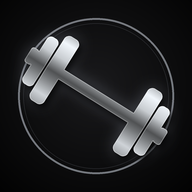
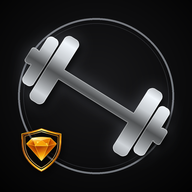
Arreglo de las fotos de la rutina en casa tras actualizar; ícono con el sello de ZafiroWeb
- Causa: el service worker servía media.js desde su copia guardada (y GitHub lo cachea 10 min),
  así que al actualizar quedaba la página nueva con el media.js viejo, sin los ejercicios de casa.
  Ahora media.js lleva la versión en la URL, la instalación baja todo con cache: reload y la página
  se pide con no-cache (antes el navegador podía reusar la versión vieja hasta 10 min).
  Verificado simulando la actualización con max-age=600 como GitHub.
- Ícono: escudo de ZafiroWeb chiquito abajo a la izquierda (icon-192/512 y gymblack.ico) y una
  versión maskable para Android con todo dentro de la zona segura.

Changed region(s): [[0.0938, 0.6562, 0.3438, 0.9062]]

diff --git a/sw.js b/sw.js
@@ -1,12 +1,12 @@
-const CACHE = "gymblack-20260928133431", FUENTES = "gymblack-fuentes", FOTOS = "gymblack-fotos";
+const CACHE = "gymblack-20260928134633", FUENTES = "gymblack-fuentes", FOTOS = "gymblack-fotos";
 const LISTA_FOTOS = ["ejercicios/Ball_Leg_Curl/0.jpg", "ejercicios/Ball_Leg_Curl/1.jpg", "ejercicios/Band_Assisted_Pull-Up/0.jpg", "ejercicios/Band_Assisted_Pull-Up/1.jpg", "ejercicios/Barbell_Bench_Press_-_Medium_Grip/0.jpg", "ejercicios/Barbell_Bench_Press_-_Medium_Grip/1.jpg", "ejercicios/Barbell_Curl/0.jpg", "ejercicios/Barbell_Curl/1.jpg", "ejercicios/Barbell_Glute_Bridge/0.jpg", "ejercicios/Barbell_Glute_Bridge/1.jpg", "ejercicios/Barbell_Hip_Thrust/0.jpg", "ejercicios/Barbell_Hip_Thrust/1.jpg", "ejercicios/Barbell_Incline_Bench_Press_-_Medium_Grip/0.jpg", "ejercicios/Barbell_Incline_Bench_Press_-_Medium_Grip/1.jpg", "ejercicios/Barbell_Seated_Calf_Raise/0.jpg", "ejercicios/Barbell_Seated_Calf_Raise/1.jpg", "ejercicios/Barbell_Squat/0.jpg", "ejercicios/Barbell_Squat/1.jpg", "ejercicios/Bench_Dips/0.jpg", "ejercicios/Bench_Dips/1.jpg", "ejercicios/Bent_Over_Barbell_Row/0.jpg", "ejercicios/Bent_Over_Barbell_Row/1.jpg", "ejercicios/Body_Tricep_Press/0.jpg", "ejercicios/Body_Tricep_Press/1.jpg", "ejercicios/Bodyweight_Squat/0.jpg", "ejercicios/Bodyweight_Squat/1.jpg", "ejercicios/Bodyweight_Walking_Lunge/0.jpg", "ejercicios/Bodyweight_Walking_Lunge/1.jpg", "ejercicios/Butt_Lift_Bridge/0.jpg", "ejercicios/Butt_Lift_Bridge/1.jpg", "ejercicios/Butterfly/0.jpg", "ejercicios/Butterfly/1.jpg", "ejercicios/Cable_Crossover/0.jpg", "ejercicios/Cable_Crossover/1.jpg", "ejercicios/Cable_Hammer_Curls_-_Rope_Attachment/0.jpg", "ejercicios/Cable_Hammer_Curls_-_Rope_Attachment/1.jpg", "ejercicios/Cable_Lying_Triceps_Extension/0.jpg", "ejercicios/Cable_Lying_Triceps_Extension/1.jpg", "ejercicios/Cable_Rear_Delt_Fly/0.jpg", "ejercicios/Cable_Rear_Delt_Fly/1.jpg", "ejercicios/Cable_Rope_Overhead_Triceps_Extension/0.jpg", "ejercicios/Cable_Rope_Overhead_Triceps_Extension/1.jpg", "ejercicios/Cable_Seated_Lateral_Raise/0.jpg", "ejercicios/Cable_Seated_Lateral_Raise/1.jpg", "ejercicios/Calf_Press_On_The_Leg_Press_Machine/0.jpg", "ejercicios/Calf_Press_On_The_Leg_Press_Machine/1.jpg", "ejercicios/Calf_Raises_-_With_Bands/0.jpg", "ejercicios/Calf_Raises_-_With_Bands/1.jpg", "ejercicios/Close-Grip_Barbell_Bench_Press/0.jpg", "ejercicios/Close-Grip_Barbell_Bench_Press/1.jpg", "ejercicios/Close-Grip_Front_Lat_Pulldown/0.jpg", "ejercicios/Close-Grip_Front_Lat_Pulldown/1.jpg", "ejercicios/Cross_Body_Hammer_Curl/0.jpg", "ejercicios/Cross_Body_Hammer_Curl/1.jpg", "ejercicios/Crossover_Reverse_Lunge/0.jpg", "ejercicios/Crossover_Reverse_Lunge/1.jpg", "ejercicios/Dumbbell_Alternate_Bicep_Curl/0.jpg", "ejercicios/Dumbbell_Alternate_Bicep_Curl/1.jpg", "ejercicios/Dumbbell_Bench_Press/0.jpg", "ejercicios/Dumbbell_Bench_Press/1.jpg", "ejercicios/Dumbbell_Bicep_Curl/0.jpg", "ejercicios/Dumbbell_Bicep_Curl/1.jpg", "ejercicios/Dumbbell_Incline_Row/0.jpg", "ejercicios/Dumbbell_Incline_Row/1.jpg", "ejercicios/Dumbbell_Lunges/0.jpg", "ejercicios/Dumbbell_Lunges/1.jpg", "ejercicios/Dumbbell_Seated_One-Leg_Calf_Raise/0.jpg", "ejercicios/Dumbbell_Seated_One-Leg_Calf_Raise/1.jpg", "ejercicios/Dumbbell_Shoulder_Press/0.jpg", "ejercicios/Dumbbell_Shoulder_Press/1.jpg", "ejercicios/Dumbbell_Squat/0.jpg", "ejercicios/Dumbbell_Squat/1.jpg", "ejercicios/Dumbbell_Step_Ups/0.jpg", "ejercicios/Dumbbell_Step_Ups/1.jpg", "ejercicios/EZ-Bar_Curl/0.jpg", "ejercicios/EZ-Bar_Curl/1.jpg", "ejercicios/EZ-Bar_Skullcrusher/0.jpg", "ejercicios/EZ-Bar_Skullcrusher/1.jpg", "ejercicios/Face_Pull/0.jpg", "ejercicios/Face_Pull/1.jpg", "ejercicios/Fast_Skipping/0.jpg", "ejercicios/Fast_Skipping/1.jpg", "ejercicios/Floor_Glute-Ham_Raise/0.jpg", "ejercicios/Floor_Glute-Ham_Raise/1.jpg", "ejercicios/Freehand_Jump_Squat/0.jpg", "ejercicios/Freehand_Jump_Squat/1.jpg", "ejercicios/Glute_Kickback/0.jpg", "ejercicios/Glute_Kickback/1.jpg", "ejercicios/Goblet_Squat/0.jpg", "ejercicios/Goblet_Squat/1.jpg", "ejercicios/Good_Morning/0.jpg", "ejercicios/Good_Morning/1.jpg", "ejercicios/Hack_Squat/0.jpg", "ejercicios/Hack_Squat/1.jpg", "ejercicios/Hammer_Curls/0.jpg", "ejercicios/Hammer_Curls/1.jpg", "ejercicios/Handstand_Push-Ups/0.jpg", "ejercicios/Handstand_Push-Ups/1.jpg", "ejercicios/Hyperextensions_With_No_Hyperextension_Bench/0.jpg", "ejercicios/Hyperextensions_With_No_Hyperextension_Bench/1.jpg", "ejercicios/Incline_Cable_Flye/0.jpg", "ejercicios/Incline_Cable_Flye/1.jpg", "ejercicios/Incline_Dumbbell_Curl/0.jpg", "ejercicios/Incline_Dumbbell_Curl/1.jpg", "ejercicios/Incline_Dumbbell_Flyes/0.jpg", "ejercicios/Incline_Dumbbell_Flyes/1.jpg", "ejercicios/Incline_Dumbbell_Press/0.jpg", "ejercicios/Incline_Dumbbell_Press/1.jpg", "ejercicios/Incline_Push-Up/0.jpg", "ejercicios/Incline_Push-Up/1.jpg", "ejercicios/Incline_Push-Up_Close-Grip/0.jpg", "ejercicios/Incline_Push-Up_Close-Grip/1.jpg", "ejercicios/Incline_Push-Up_Medium/0.jpg", "ejercicios/Incline_Push-Up_Medium/1.jpg", "ejercicios/Incline_Push-Up_Wide/0.jpg", "ejercicios/Incline_Push-Up_Wide/1.jpg", "ejercicios/Inverted_Row/0.jpg", "ejercicios/Inverted_Row/1.jpg", "ejercicios/Inverted_Row_with_Straps/0.jpg", "ejercicios/Inverted_Row_with_Straps/1.jpg", "ejercicios/Isometric_Chest_Squeezes/0.jpg", "ejercicios/Isometric_Chest_Squeezes/1.jpg", "ejercicios/Kettlebell_One-Legged_Deadlift/0.jpg", "ejercicios/Kettlebell_One-Legged_Deadlift/1.jpg", "ejercicios/Lateral_Raise_-_With_Bands/0.jpg", "ejercicios/Lateral_Raise_-_With_Bands/1.jpg", "ejercicios/Leg_Extensions/0.jpg", "ejercicios/Leg_Extensions/1.jpg", "ejercicios/Leg_Press/0.jpg", "ejercicios/Leg_Press/1.jpg", "ejercicios/Leverage_Chest_Press/0.jpg", "ejercicios/Leverage_Chest_Press/1.jpg", "ejercicios/Leverage_Incline_Chest_Press/0.jpg", "ejercicios/Leverage_Incline_Chest_Press/1.jpg", "ejercicios/Leverage_Iso_Row/0.jpg", "ejercicios/Leverage_Iso_Row/1.jpg", "ejercicios/Lying_Dumbbell_Tricep_Extension/0.jpg", "ejercicios/Lying_Dumbbell_Tricep_Extension/1.jpg", "ejercicios/Lying_Leg_Curls/0.jpg", "ejercicios/Lying_Leg_Curls/1.jpg", "ejercicios/Lying_Rear_Delt_Raise/0.jpg", "ejercicios/Lying_Rear_Delt_Raise/1.jpg", "ejercicios/Lying_T-Bar_Row/0.jpg", "ejercicios/Lying_T-Bar_Row/1.jpg", "ejercicios/Machine_Preacher_Curls/0.jpg", "ejercicios/Machine_Preacher_Curls/1.jpg", "ejercicios/Machine_Shoulder_Military_Press/0.jpg", "ejercicios/Machine_Shoulder_Military_Press/1.jpg", "ejercicios/Machine_Triceps_Extension/0.jpg", "ejercicios/Machine_Triceps_Extension/1.jpg", "ejercicios/One-Arm_Dumbbell_Row/0.jpg", "ejercicios/One-Arm_Dumbbell_Row/1.jpg", "ejercicios/One-Arm_Incline_Lateral_Raise/0.jpg", "ejercicios/One-Arm_Incline_Lateral_Raise/1.jpg", "ejercicios/One-Arm_Side_Laterals/0.jpg", "ejercicios/One-Arm_Side_Laterals/1.jpg", "ejercicios/One-Legged_Cable_Kickback/0.jpg", "ejercicios/One-Legged_Cable_Kickback/1.jpg", "ejercicios/One_Arm_Lat_Pulldown/0.jpg", "ejercicios/One_Arm_Lat_Pulldown/1.jpg", "ejercicios/Preacher_Hammer_Dumbbell_Curl/0.jpg", "ejercicios/Preacher_Hammer_Dumbbell_Curl/1.jpg", "ejercicios/Push-Up_Wide/0.jpg", "ejercicios/Push-Up_Wide/1.jpg", "ejercicios/Push-Ups_-_Close_Triceps_Position/0.jpg", "ejercicios/Push-Ups_-_Close_Triceps_Position/1.jpg", "ejercicios/Push-Ups_With_Feet_Elevated/0.jpg", "ejercicios/Push-Ups_With_Feet_Elevated/1.jpg", "ejercicios/Pushups/0.jpg", "ejercicios/Pushups/1.jpg", "ejercicios/Reverse_Machine_Flyes/0.jpg", "ejercicios/Reverse_Machine_Flyes/1.jpg", "ejercicios/Romanian_Deadlift/0.jpg", "ejercicios/Romanian_Deadlift/1.jpg", "ejercicios/Seated_Bent-Over_Rear_Delt_Raise/0.jpg", "ejercicios/Seated_Bent-Over_Rear_Delt_Raise/1.jpg", "ejercicios/Seated_Cable_Rows/0.jpg", "ejercicios/Seated_Cable_Rows/1.jpg", "ejercicios/Seated_Calf_Raise/0.jpg", "ejercicios/Seated_Calf_Raise/1.jpg", "ejercicios/Seated_Leg_Curl/0.jpg", "ejercicios/Seated_Leg_Curl/1.jpg", "ejercicios/Seated_Side_Lateral_Raise/0.jpg", "ejercicios/Seated_Side_Lateral_Raise/1.jpg", "ejercicios/Shoulder_Raise/0.jpg", "ejercicios/Shoulder_Raise/1.jpg", "ejercicios/Side_Bridge/0.jpg", "ejercicios/Side_Bridge/1.jpg", "ejercicios/Side_Lateral_Raise/0.jpg", "ejercicios/Side_Lateral_Raise/1.jpg", "ejercicios/Single-Leg_Leg_Extension/0.jpg", "ejercicios/Single-Leg_Leg_Extension/1.jpg", "ejercicios/Single_Leg_Glute_Bridge/0.jpg", "ejercicios/Single_Leg_Glute_Bridge/1.jpg", "ejercicios/Sit_Squats/0.jpg", "ejercicios/Sit_Squats/1.jpg", "ejercicios/Smith_Machine_Bench_Press/0.jpg", "ejercicios/Smith_Machine_Bench_Press/1.jpg", "ejercicios/Smith_Machine_Calf_Raise/0.jpg", "ejercicios/Smith_Machine_Calf_Raise/1.jpg", "ejercicios/Smith_Machine_Incline_Bench_Press/0.jpg", "ejercicios/Smith_Machine_Incline_Bench_Press/1.jpg", "ejercicios/Smith_Machine_Overhead_Shoulder_Press/0.jpg", "ejercicios/Smith_Machine_Overhead_Shoulder_Press/1.jpg", "ejercicios/Smith_Machine_Squat/0.jpg", "ejercicios/Smith_Machine_Squat/1.jpg", "ejercicios/Smith_Machine_Stiff-Legged_Deadlift/0.jpg", "ejercicios/Smith_Machine_Stiff-Legged_Deadlift/1.jpg", "ejercicios/Smith_Single-Leg_Split_Squat/0.jpg", "ejercicios/Smith_Single-Leg_Split_Squat/1.jpg", "ejercicios/Split_Squat_with_Dumbbells/0.jpg", "ejercicios/Split_Squat_with_Dumbbells/1.jpg", "ejercicios/Split_Squats/0.jpg", "ejercicios/Split_Squats/1.jpg", "ejercicios/Standing_Biceps_Cable_Curl/0.jpg", "ejercicios/Standing_Biceps_Cable_Curl/1.jpg", "ejercicios/Standing_Calf_Raises/0.jpg", "ejercicios/Standing_Calf_Raises/1.jpg", "ejercicios/Standing_Dumbbell_Calf_Raise/0.jpg", "ejercicios/Standing_Dumbbell_Calf_Raise/1.jpg", "ejercicios/Standing_Dumbbell_Triceps_Extension/0.jpg", "ejercicios/Standing_Dumbbell_Triceps_Extension/1.jpg", "ejercicios/Standing_Leg_Curl/0.jpg", "ejercicios/Standing_Leg_Curl/1.jpg", "ejercicios/Standing_Military_Press/0.jpg", "ejercicios/Standing_Military_Press/1.jpg", "ejercicios/Standing_Overhead_Barbell_Triceps_Extension/0.jpg", "ejercicios/Standing_Overhead_Barbell_Triceps_Extension/1.jpg", "ejercicios/Standing_Towel_Triceps_Extension/0.jpg", "ejercicios/Standing_Towel_Triceps_Extension/1.jpg", "ejercicios/Step-up_with_Knee_Raise/0.jpg", "ejercicios/Step-up_with_Knee_Raise/1.jpg", "ejercicios/Stiff-Legged_Dumbbell_Deadlift/0.jpg", "ejercicios/Stiff-Legged_Dumbbell_Deadlift/1.jpg", "ejercicios/Superman/0.jpg", "ejercicios/Superman/1.jpg", "ejercicios/Tricep_Dumbbell_Kickback/0.jpg", "ejercicios/Tricep_Dumbbell_Kickback/1.jpg", "ejercicios/Triceps_Pushdown/0.jpg", "ejercicios/Triceps_Pushdown/1.jpg", "ejercicios/Triceps_Pushdown_-_Rope_Attachment/0.jpg", "ejercicios/Triceps_Pushdown_-_Rope_Attachment/1.jpg", "ejercicios/Triceps_Pushdown_-_V-Bar_Attachment/0.jpg", "ejercicios/Triceps_Pushdown_-_V-Bar_Attachment/1.jpg", "ejercicios/Wide-Grip_Lat_Pulldown/0.jpg", "ejercicios/Wide-Grip_Lat_Pulldown/1.jpg"];
-const BASE = ["./", "index.html", "manifest.webmanifest", "icon-192.png", "icon-512.png", "logo-app.png", "zafiroweb.png", "zafiroweb-intro.webp", "media.js", "sonidos/fin.wav", "sonidos/listo.wav", "sonidos/tick.wav", "sonidos/toque.wav"];
+const BASE = ["./", "index.html", "manifest.webmanifest", "icon-192.png", "icon-512.png", "logo-app.png", "zafiroweb.png", "zafiroweb-intro.webp", "icon-512-maskable.png", "media.js?v=20260928134633", "sonidos/fin.wav", "sonidos/listo.wav", "sonidos/tick.wav", "sonidos/toque.wav"];
 // Las fotos se bajan una sola vez (solo las que falten) y quedan guardadas entre versiones.
 async function guardarFotos(){
   const c = await caches.open(FOTOS), ya = new Set((await c.keys()).map(r => new URL(r.url).pathname.split("/ejercicios/")[1]));
   for (const f of LISTA_FOTOS) { const k = f.split("ejercicios/")[1]; if (!ya.has(k)) { try { await c.add(f); } catch {} } }
 }
-self.addEventListener("install", e => { e.waitUntil(caches.open(CACHE).then(c => c.addAll(BASE))); self.skipWaiting(); });
+self.addEventListener("install", e => { e.waitUntil(caches.open(CACHE).then(c => c.addAll(BASE.map(u => new Request(u, {cache: "reload"}))))); self.skipWaiting(); });
 self.addEventListener("activate", e => {
   e.waitUntil(caches.keys().then(ks => Promise.all(ks.filter(k => k !== CACHE && k !== FUENTES && k !== FOTOS).map(k => caches.delete(k)))));
   self.clients.claim();
@@ -27,7 +27,8 @@ async function conRango(pedido, respuesta){
 // Primero internet; si tarda más de 3 s o no hay señal, la copia guardada.
 async function pagina(pedido){
   const c = await caches.open(CACHE);
-  const red = fetch(pedido).then(res => { if (res.ok) c.put("index.html", res.clone()); return res; });
+  // no-cache: siempre pregunta a internet si hay versión nueva (sin esto, el navegador reusa la página vieja hasta 10 min)
+  const red = fetch(new Request(pedido.url, {cache: "no-cache", credentials: "same-origin"})).then(res => { if (res.ok) c.put("index.html", res.clone()); return res; });
   const guardada = await c.match("index.html");
   if (!guardada) return red;
   const tiempo = new Promise(ok => setTimeout(() => ok(null), 3000));

diff --git a/index.html b/index.html
@@ -12,8 +12,8 @@
 <meta name="apple-mobile-web-app-capable" content="yes">
 <meta name="apple-mobile-web-app-status-bar-style" content="black-translucent">
 <meta name="apple-mobile-web-app-title" content="GymBlack">
-<link rel="apple-touch-icon" href="icon-192.png">
-<link rel="icon" type="image/png" href="icon-192.png">
+<link rel="apple-touch-icon" href="icon-192.png?v=2">
+<link rel="icon" type="image/png" href="icon-192.png?v=2">
 
 <style>
 :root{
@@ -151,7 +151,7 @@ details summary{cursor:pointer;font-weight:800;padding:4px 0}
 </div></nav>
 <div id="guia"></div>
 <div id="hoja"></div>
-<script src="media.js"></script>
+<script src="media.js?v=20260928134633"></script>
 <script>
 "use strict";
 /* ============ RUTINA: HYPERTROPHY ELITE PROGRAM v2 ============ */
@@ -1316,7 +1316,7 @@ if (E && E.sesion && E.sesion.f === hoyStr() && E.sesion.descansoHasta) abrirGui
 setInterval(() => { if (E && E.inicio && !$("#guia").innerHTML && !(document.activeElement && document.activeElement.tagName === "INPUT")) render(); }, 60000);
 </script>
 <script>
-const VERSION_APP = "20260928133431";
+const VERSION_APP = "20260928134633";
 if ("serviceWorker" in navigator) addEventListener("load", () => navigator.serviceWorker.register("sw.js").then(reg => {
   document.addEventListener("visibilitychange", () => { if (!document.hidden) reg.update().catch(() => {}); });
 }).catch(() => {}));
